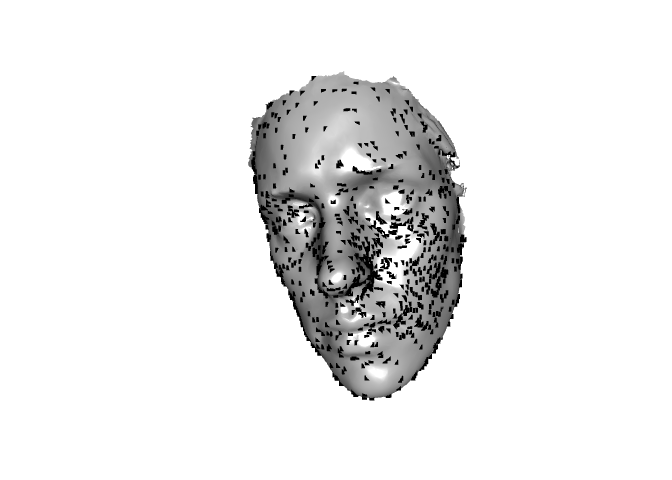
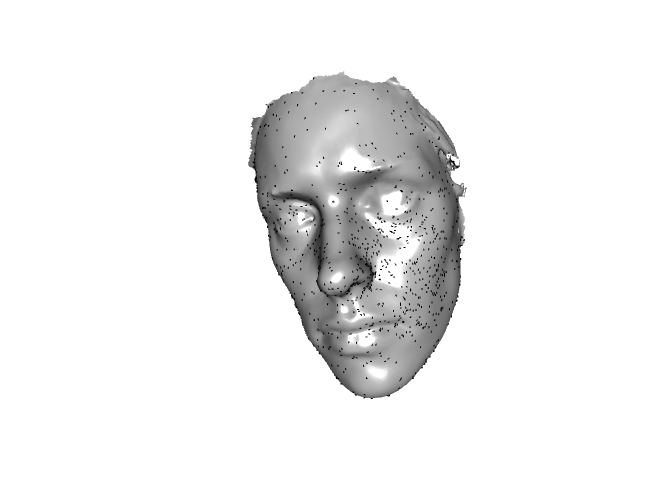
change size pts

diff --git a/README.md b/README.md
@@ -127,7 +127,7 @@ the Freedman-Diaconis choice of bins’ widths for a histogram, is chosen
 by default.
 
 ``` r
-RFnocov <- spforest(X, Ntree = 2)
+RFnocov <- spforest(X, Ntree = 100)
 plot(RFnocov, col = cm, main="")
 ```
 
@@ -144,7 +144,7 @@ library(rgl)
 library(Rvcg)
 X <- spforest::simppface
 shade3d(X$mesh, col = "gray")
-points3d(X$pp, col = "black", size = 5, add = T)
+points3d(X$pp, col = "black", size = 2, add = T)
 view3d(theta = 20, phi = 0)
 ```
 